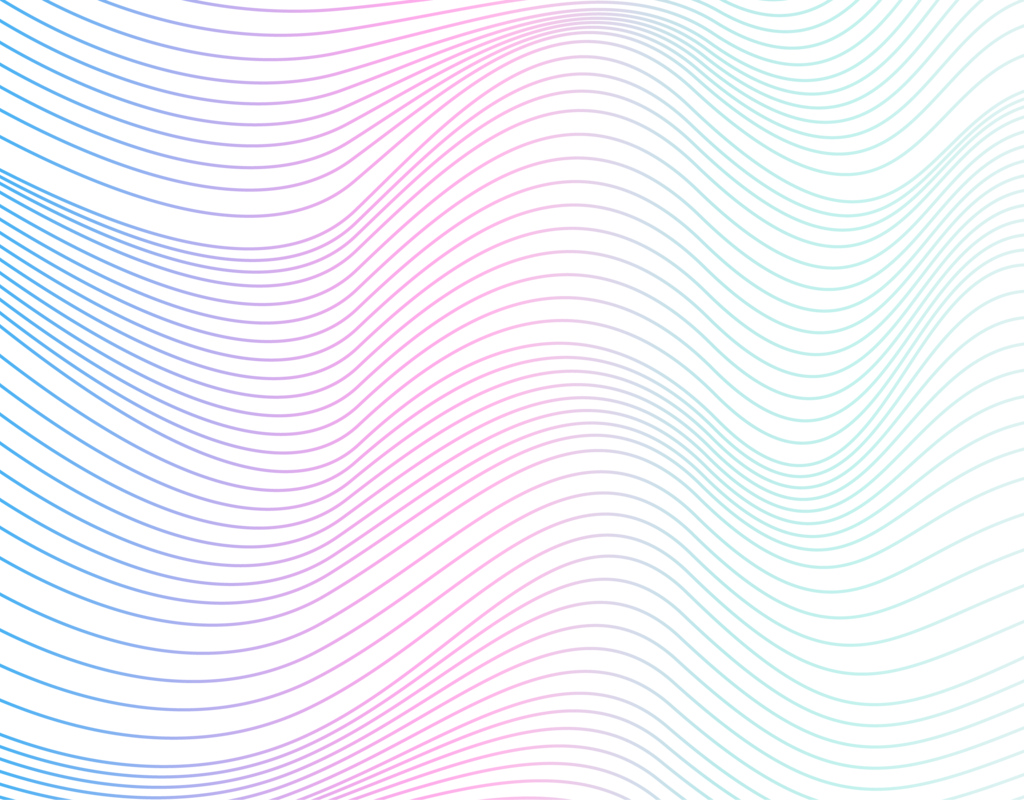
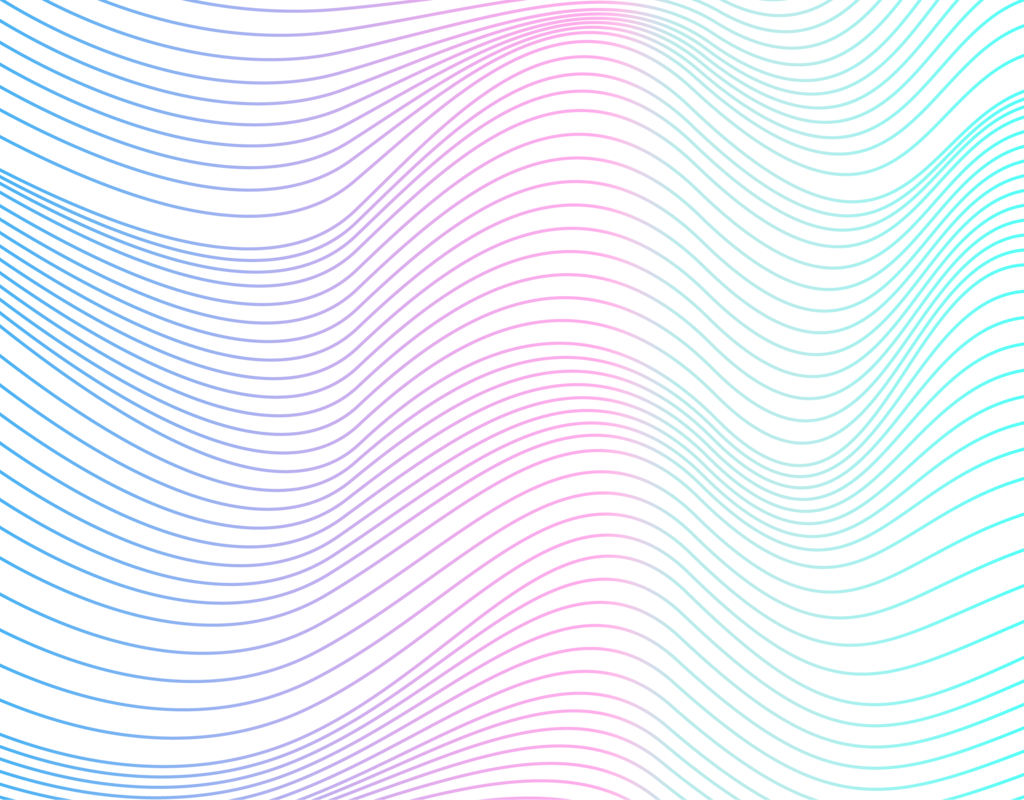
修改

diff --git a/src/【今日水印_Step3】添加时间文字/config/jrsy_config.py b/src/【今日水印_Step3】添加时间文字/config/jrsy_config.py
@@ -26,11 +26,10 @@ layout_data = [
                         "font_path": "/Users/teacher/Desktop/pdf_command/python_picture_tools/src/assets/fonts/jinrishuiyin.ttf",
                         "font_size": 148,
                         "image_mask": {
-                            "path": "/Users/teacher/Desktop/111.png", 
-                            # "path": "/Users/teacher/Desktop/pdf_command/python_picture_tools/src/【今日水印_Step3】添加时间文字/assets/time_mask.png",
-                            "pos": (0, 0),                # 蒙版相对文字左上角的偏移，默认 (0, 0)
-                            "scale_width": 0.5,           # 宽度缩放比例，默认 1.0
-                            "scale_height": 0.5,          # 高度缩放比例，默认 1.0
+                            "path": "/Users/teacher/Desktop/pdf_command/python_picture_tools/src/【今日水印_Step3】添加时间文字/assets/111.png", 
+                            "pos": (100, 0),                # 蒙版相对文字左上角的偏移，默认 (0, 0)
+                            "scale_width": 0.3,           # 宽度缩放比例，默认 1.0
+                            "scale_height": 0.3,          # 高度缩放比例，默认 1.0
                         },
                     },
                     {
@@ -95,7 +94,7 @@ layout_data = [
                     {
                         "type": "image",
                         "text_key": "logo",
-                        "width": 270
+                        "width": 210
                     }
                 ]
             },

diff --git a/src/【今日水印_Step3】添加时间文字/2026-11-24_batch.py b/src/【今日水印_Step3】添加时间文字/2026-11-24_batch.py
@@ -1,6 +1,7 @@
 from create_widget import batch_process_folder
 from datetime import datetime
 import os
+import copy
 from config.jrsy_config import common_config,layout_data
 
 if __name__ == "__main__":
@@ -22,6 +23,27 @@ if __name__ == "__main__":
         "防伪": "防伪码" # ⚠ 你的原代码里似乎漏了这个 key，这里补上
     }
 
+    my_layout_data = copy.deepcopy(layout_data)
+    standard_width = 2160
+    layer_data = [
+        {
+            "pos_x":44,
+            "pos_y": -544,
+            "scale": 1,
+            "standard_width": standard_width
+        },
+        {
+            "pos_x": -44,
+            "pos_y": -544,
+            "scale": 1,
+            "standard_width": standard_width
+        }
+    ]
+
+    my_layout_data[0].update(layer_data[0]) 
+    my_layout_data[1].update(layer_data[1]) 
+
+
     # ✨ 修改这里：输入文件夹 和 输出文件夹
     input_directory = "/Users/teacher/Desktop/5张" 
     output_directory = "/Users/teacher/Desktop/5张_加水印" 
@@ -30,7 +52,7 @@ if __name__ == "__main__":
     batch_process_folder(
         input_dir=input_directory,
         output_dir=output_directory,
-        layout_data=layout_data,
+        layout_data=my_layout_data,
         texts=my_texts,
         common_config=common_config,
     )

diff --git a/src/【今日水印_Step3】添加时间文字/2026-11-24_single.py b/src/【今日水印_Step3】添加时间文字/2026-11-24_single.py
@@ -1,6 +1,7 @@
 from create_widget import render_component_to_image
 from datetime import datetime
 import os
+import copy
 from config.jrsy_config import common_config,layout_data
 
 if __name__ == "__main__":
@@ -21,6 +22,23 @@ if __name__ == "__main__":
         "sn_code": "KTHAN1E3Y3X3BP"
     }
 
+
+    my_layout_data = copy.deepcopy(layout_data)
+    layer_data = [
+        {
+            "pos_x":44,
+            "pos_y": -544,
+            "scale": 1.5,
+        },
+        {
+            "pos_x": -44,
+            "pos_y": -544,
+            "scale": 1,
+        }
+    ]
+
+    my_layout_data[0].update(layer_data[0]) 
+    my_layout_data[1].update(layer_data[1]) 
 
     background_path = "/Users/teacher/Desktop/5张/图片.png"
     base_name, ext = os.path.splitext(background_path)
